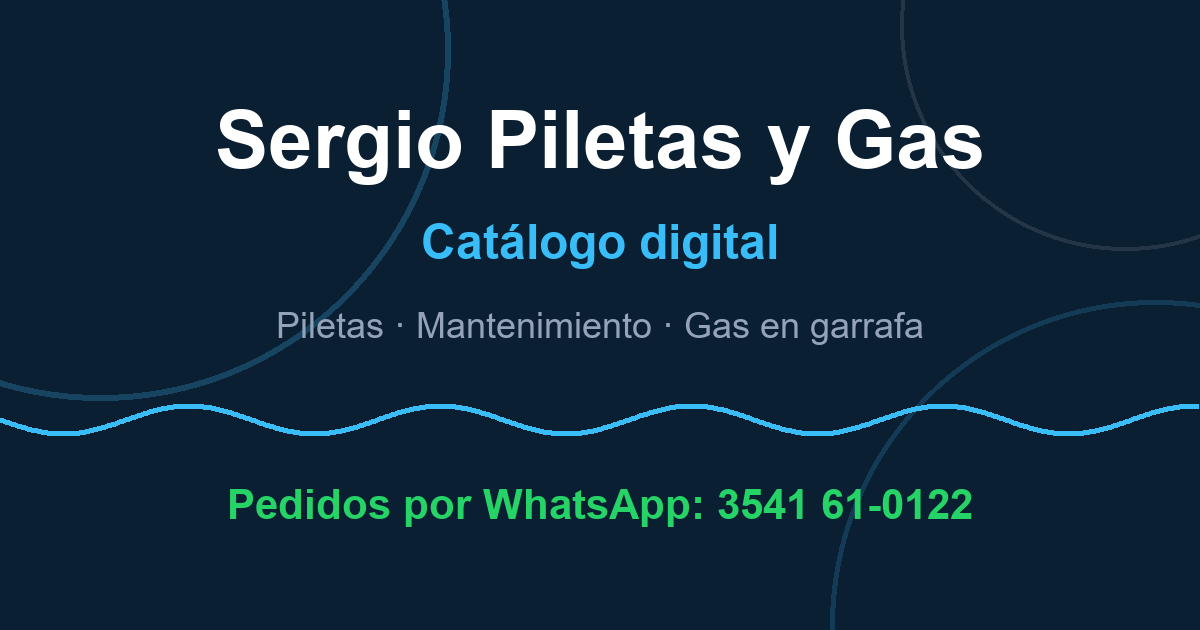
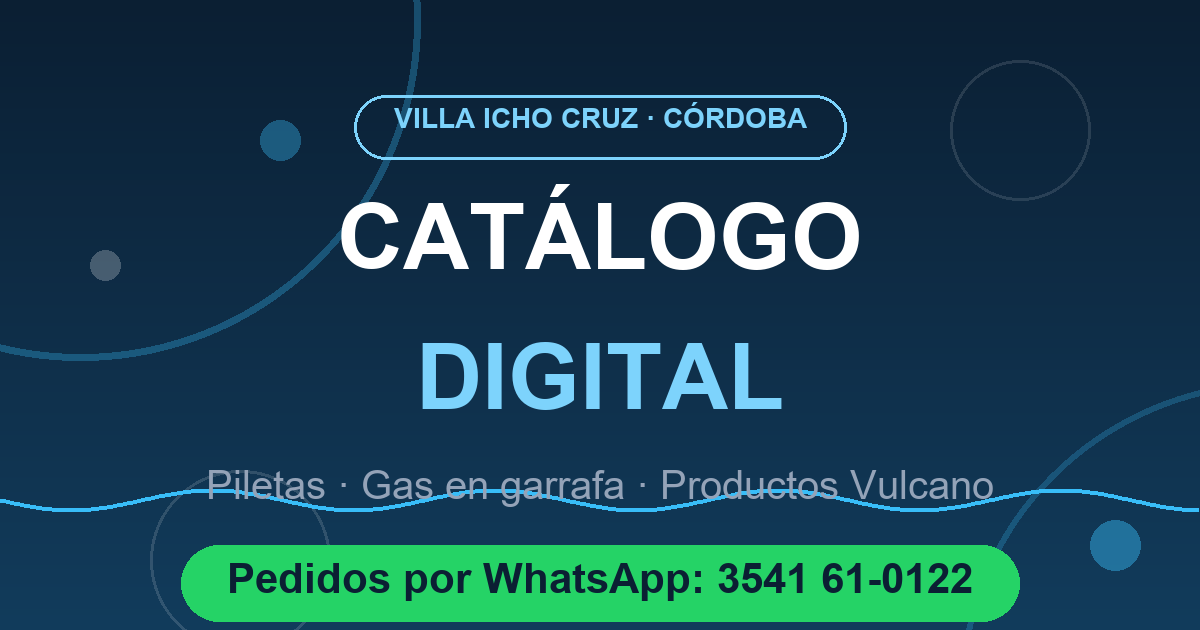
tarjeta de vista previa rediseñada: catalogo digital en grande + chip whatsapp

diff --git a/index.html b/index.html
@@ -8,8 +8,8 @@
 
   <!-- Vista previa del link al compartirlo (WhatsApp, Instagram, etc.) -->
   <meta property="og:type" content="website">
-  <meta property="og:title" content="Sergio Piletas y Gas — Catálogo digital">
-  <meta property="og:description" content="Mantenimiento de piletas y venta de gas en garrafa en Villa Icho Cruz. Servicio profesional con entrega a domicilio.">
+  <meta property="og:title" content="Sergio Piletas y Gas | Catálogo digital: piletas y gas">
+  <meta property="og:description" content="Piletas, gas en garrafa y productos Vulcano. Mirá todo el catálogo y consultá precios por WhatsApp 📲">
   <meta property="og:image" content="https://sergio-piletas-y-gas.onrender.com/img/og-preview.png">
   <meta property="og:image:width" content="1200">
   <meta property="og:image:height" content="630">
